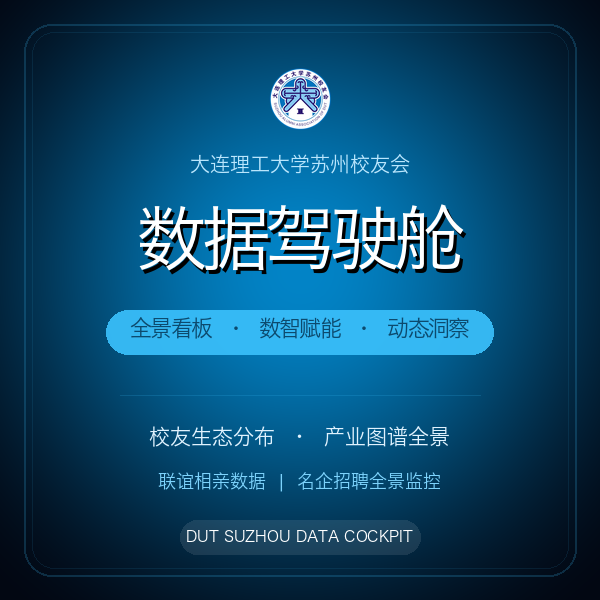
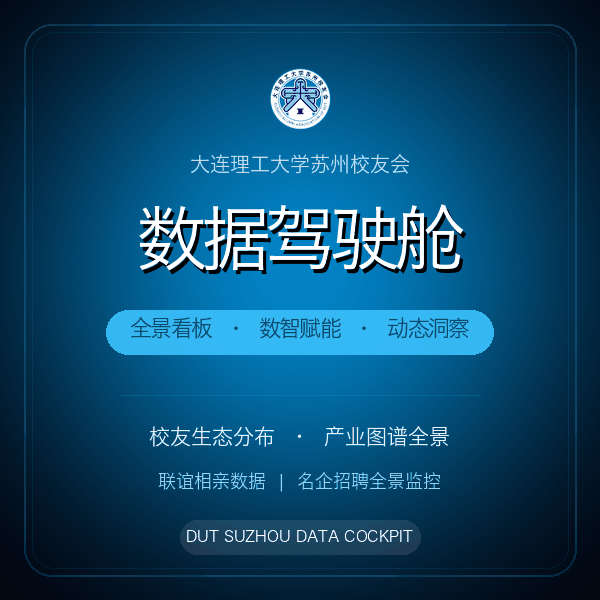
fix(share): 彻底解决数据驾驶舱微信分享灰色占位图问题，修复首图尺寸、头标签及根布局冲突

Changed region(s): [[0.45, 0.12, 0.54, 0.21], [0.42, 0.78, 0.45, 0.81], [0.36, 0.39, 0.39, 0.42]]

diff --git a/app/cockpit/page.tsx b/app/cockpit/page.tsx
@@ -141,6 +141,32 @@ export default function CockpitPage() {
 
   useEffect(() => {
     document.title = '数据驾驶舱 - 大工苏州校友会';
+
+    // Inject / update WeChat share meta tags directly into DOM
+    try {
+      const setMeta = (attr: string, key: string, content: string) => {
+        let el = document.querySelector(`meta[${attr}="${key}"]`);
+        if (!el) {
+          el = document.createElement('meta');
+          el.setAttribute(attr, key);
+          document.head.appendChild(el);
+        }
+        el.setAttribute('content', content);
+      };
+      setMeta('property', 'og:title', '数据驾驶舱 - 大工苏州校友会');
+      setMeta('property', 'og:description', '大连理工大学苏州校友数据驾驶舱，全景呈现校友分布、行业生态、相亲联谊与企业招聘实时洞察。');
+      setMeta('property', 'og:image', 'http://godii.top:8085/share-cockpit.png');
+      setMeta('itemprop', 'image', 'http://godii.top:8085/share-cockpit.png');
+
+      let link = document.querySelector('link[rel="image_src"]');
+      if (!link) {
+        link = document.createElement('link');
+        link.setAttribute('rel', 'image_src');
+        document.head.appendChild(link);
+      }
+      link.setAttribute('href', 'http://godii.top:8085/share-cockpit.png');
+    } catch (e) {}
+
     fetchData();
 
     // Auto-refresh every 60 seconds
@@ -190,6 +216,16 @@ export default function CockpitPage() {
         justifyContent: 'center',
         fontFamily: 'system-ui'
       }}>
+        {/* WeChat share card thumbnail helper */}
+        <div style={{ position: 'absolute', top: -9999, left: -9999, zIndex: -9999, pointerEvents: 'none' }}>
+          <img
+            src="http://godii.top:8085/share-cockpit.png"
+            width="300"
+            height="300"
+            style={{ width: '300px', height: '300px', display: 'block' }}
+            alt="数据驾驶舱"
+          />
+        </div>
         <div className="spinner" style={{ width: '40px', height: '40px', borderWidth: '3px' }} />
         <div style={{ marginTop: '16px', fontSize: '16px', letterSpacing: '2px' }}>
           正在加载校友大数据驾驶舱...
@@ -216,6 +252,17 @@ export default function CockpitPage() {
       ref={cockpitRef}
       className={`cockpit-container ${isFullscreen ? 'is-fullscreen' : ''}`}
     >
+      {/* WeChat share card thumbnail helper */}
+      <div style={{ position: 'absolute', top: -9999, left: -9999, zIndex: -9999, pointerEvents: 'none' }}>
+        <img
+          src="http://godii.top:8085/share-cockpit.png"
+          width="300"
+          height="300"
+          style={{ width: '300px', height: '300px', display: 'block' }}
+          alt="数据驾驶舱"
+        />
+      </div>
+
       {/* Dynamic Background Grid Pattern */}
       <div style={{
         position: 'absolute',

diff --git a/app/cockpit/layout.tsx b/app/cockpit/layout.tsx
@@ -34,9 +34,19 @@ export const metadata: Metadata = {
 export default function CockpitLayout({ children }: { children: React.ReactNode }) {
   return (
     <>
-      {/* WeChat share card thumbnail helper */}
-      <div style={{ position: 'absolute', top: -9999, left: -9999, width: 0, height: 0, overflow: 'hidden' }}>
-        <img src={shareImageUrl} width="300" height="300" alt="数据驾驶舱" />
+      <head>
+        <link rel="image_src" href={shareImageUrl} />
+        <meta itemProp="image" content={shareImageUrl} />
+      </head>
+      {/* WeChat share card thumbnail helper with explicit 300x300 dimensions for WeChat spider */}
+      <div style={{ position: 'absolute', top: -9999, left: -9999, zIndex: -9999, pointerEvents: 'none' }}>
+        <img
+          src={shareImageUrl}
+          width="300"
+          height="300"
+          style={{ width: '300px', height: '300px', display: 'block' }}
+          alt="数据驾驶舱"
+        />
       </div>
       {children}
     </>

diff --git a/app/jobs/[id]/layout.tsx b/app/jobs/[id]/layout.tsx
@@ -79,9 +79,19 @@ export default function JobDetailLayout({ children }: { children: React.ReactNod
   const shareImageUrl = `${BASE_URL}/share-jobs.png`;
   return (
     <>
+      <head>
+        <link rel="image_src" href={shareImageUrl} />
+        <meta itemProp="image" content={shareImageUrl} />
+      </head>
       {/* WeChat share card thumbnail helper */}
-      <div style={{ position: 'absolute', top: -9999, left: -9999, width: 0, height: 0, overflow: 'hidden' }}>
-        <img src={shareImageUrl} width="300" height="300" alt="连理招聘" />
+      <div style={{ position: 'absolute', top: -9999, left: -9999, zIndex: -9999, pointerEvents: 'none' }}>
+        <img
+          src={shareImageUrl}
+          width="300"
+          height="300"
+          style={{ width: '300px', height: '300px', display: 'block' }}
+          alt="连理招聘"
+        />
       </div>
       {children}
     </>

diff --git a/app/matchmaking/layout.tsx b/app/matchmaking/layout.tsx
@@ -34,9 +34,19 @@ export const metadata: Metadata = {
 export default function MatchmakingLayout({ children }: { children: React.ReactNode }) {
   return (
     <>
+      <head>
+        <link rel="image_src" href={shareImageUrl} />
+        <meta itemProp="image" content={shareImageUrl} />
+      </head>
       {/* WeChat share card thumbnail helper */}
-      <div style={{ position: 'absolute', top: -9999, left: -9999, width: 0, height: 0, overflow: 'hidden' }}>
-        <img src={shareImageUrl} width="300" height="300" alt="喜结连理" />
+      <div style={{ position: 'absolute', top: -9999, left: -9999, zIndex: -9999, pointerEvents: 'none' }}>
+        <img
+          src={shareImageUrl}
+          width="300"
+          height="300"
+          style={{ width: '300px', height: '300px', display: 'block' }}
+          alt="喜结连理"
+        />
       </div>
       {children}
     </>

diff --git a/app/jobs/layout.tsx b/app/jobs/layout.tsx
@@ -34,9 +34,19 @@ export const metadata: Metadata = {
 export default function JobsLayout({ children }: { children: React.ReactNode }) {
   return (
     <>
+      <head>
+        <link rel="image_src" href={shareImageUrl} />
+        <meta itemProp="image" content={shareImageUrl} />
+      </head>
       {/* WeChat share card thumbnail helper */}
-      <div style={{ position: 'absolute', top: -9999, left: -9999, width: 0, height: 0, overflow: 'hidden' }}>
-        <img src={shareImageUrl} width="300" height="300" alt="连理招聘" />
+      <div style={{ position: 'absolute', top: -9999, left: -9999, zIndex: -9999, pointerEvents: 'none' }}>
+        <img
+          src={shareImageUrl}
+          width="300"
+          height="300"
+          style={{ width: '300px', height: '300px', display: 'block' }}
+          alt="连理招聘"
+        />
       </div>
       {children}
     </>

diff --git a/app/alumni/[id]/layout.tsx b/app/alumni/[id]/layout.tsx
@@ -74,8 +74,18 @@ export default function AlumniDetailLayout({ children }: { children: React.React
   const shareImageUrl = `${BASE_URL}/share-alumni.png`;
   return (
     <>
-      <div style={{ position: 'absolute', top: -9999, left: -9999, width: 0, height: 0, overflow: 'hidden' }}>
-        <img src={shareImageUrl} width="300" height="300" alt="校友名片" />
+      <head>
+        <link rel="image_src" href={shareImageUrl} />
+        <meta itemProp="image" content={shareImageUrl} />
+      </head>
+      <div style={{ position: 'absolute', top: -9999, left: -9999, zIndex: -9999, pointerEvents: 'none' }}>
+        <img
+          src={shareImageUrl}
+          width="300"
+          height="300"
+          style={{ width: '300px', height: '300px', display: 'block' }}
+          alt="校友名片"
+        />
       </div>
       {children}
     </>

diff --git a/app/layout.tsx b/app/layout.tsx
@@ -42,14 +42,7 @@ export default function RootLayout({
 }) {
   return (
     <html lang="zh-CN">
-      <head>
-        <link rel="image_src" href={`${BASE_URL}/share-alumni.png`} />
-      </head>
       <body>
-        {/* WeChat share card thumbnail helper (positioned off-screen, not display:none) */}
-        <div style={{ position: 'absolute', top: -9999, left: -9999, width: 0, height: 0, overflow: 'hidden' }}>
-          <img src={`${BASE_URL}/share-alumni.png`} width="300" height="300" alt="大工苏州校友会" />
-        </div>
         <div className="app-shell">
           <Sidebar />
           <main className="main-content">

diff --git a/app/page.tsx b/app/page.tsx
@@ -224,6 +224,16 @@ export default function HomePage() {
 
   return (
     <div className="fade-in">
+      {/* WeChat share card thumbnail helper */}
+      <div style={{ position: 'absolute', top: -9999, left: -9999, zIndex: -9999, pointerEvents: 'none' }}>
+        <img
+          src="http://godii.top:8085/share-alumni.png"
+          width="300"
+          height="300"
+          style={{ width: '300px', height: '300px', display: 'block' }}
+          alt="大工苏州校友通讯录"
+        />
+      </div>
       <div className="page-header">
         <div>
           <h1 className="page-title">校友通讯录</h1>
